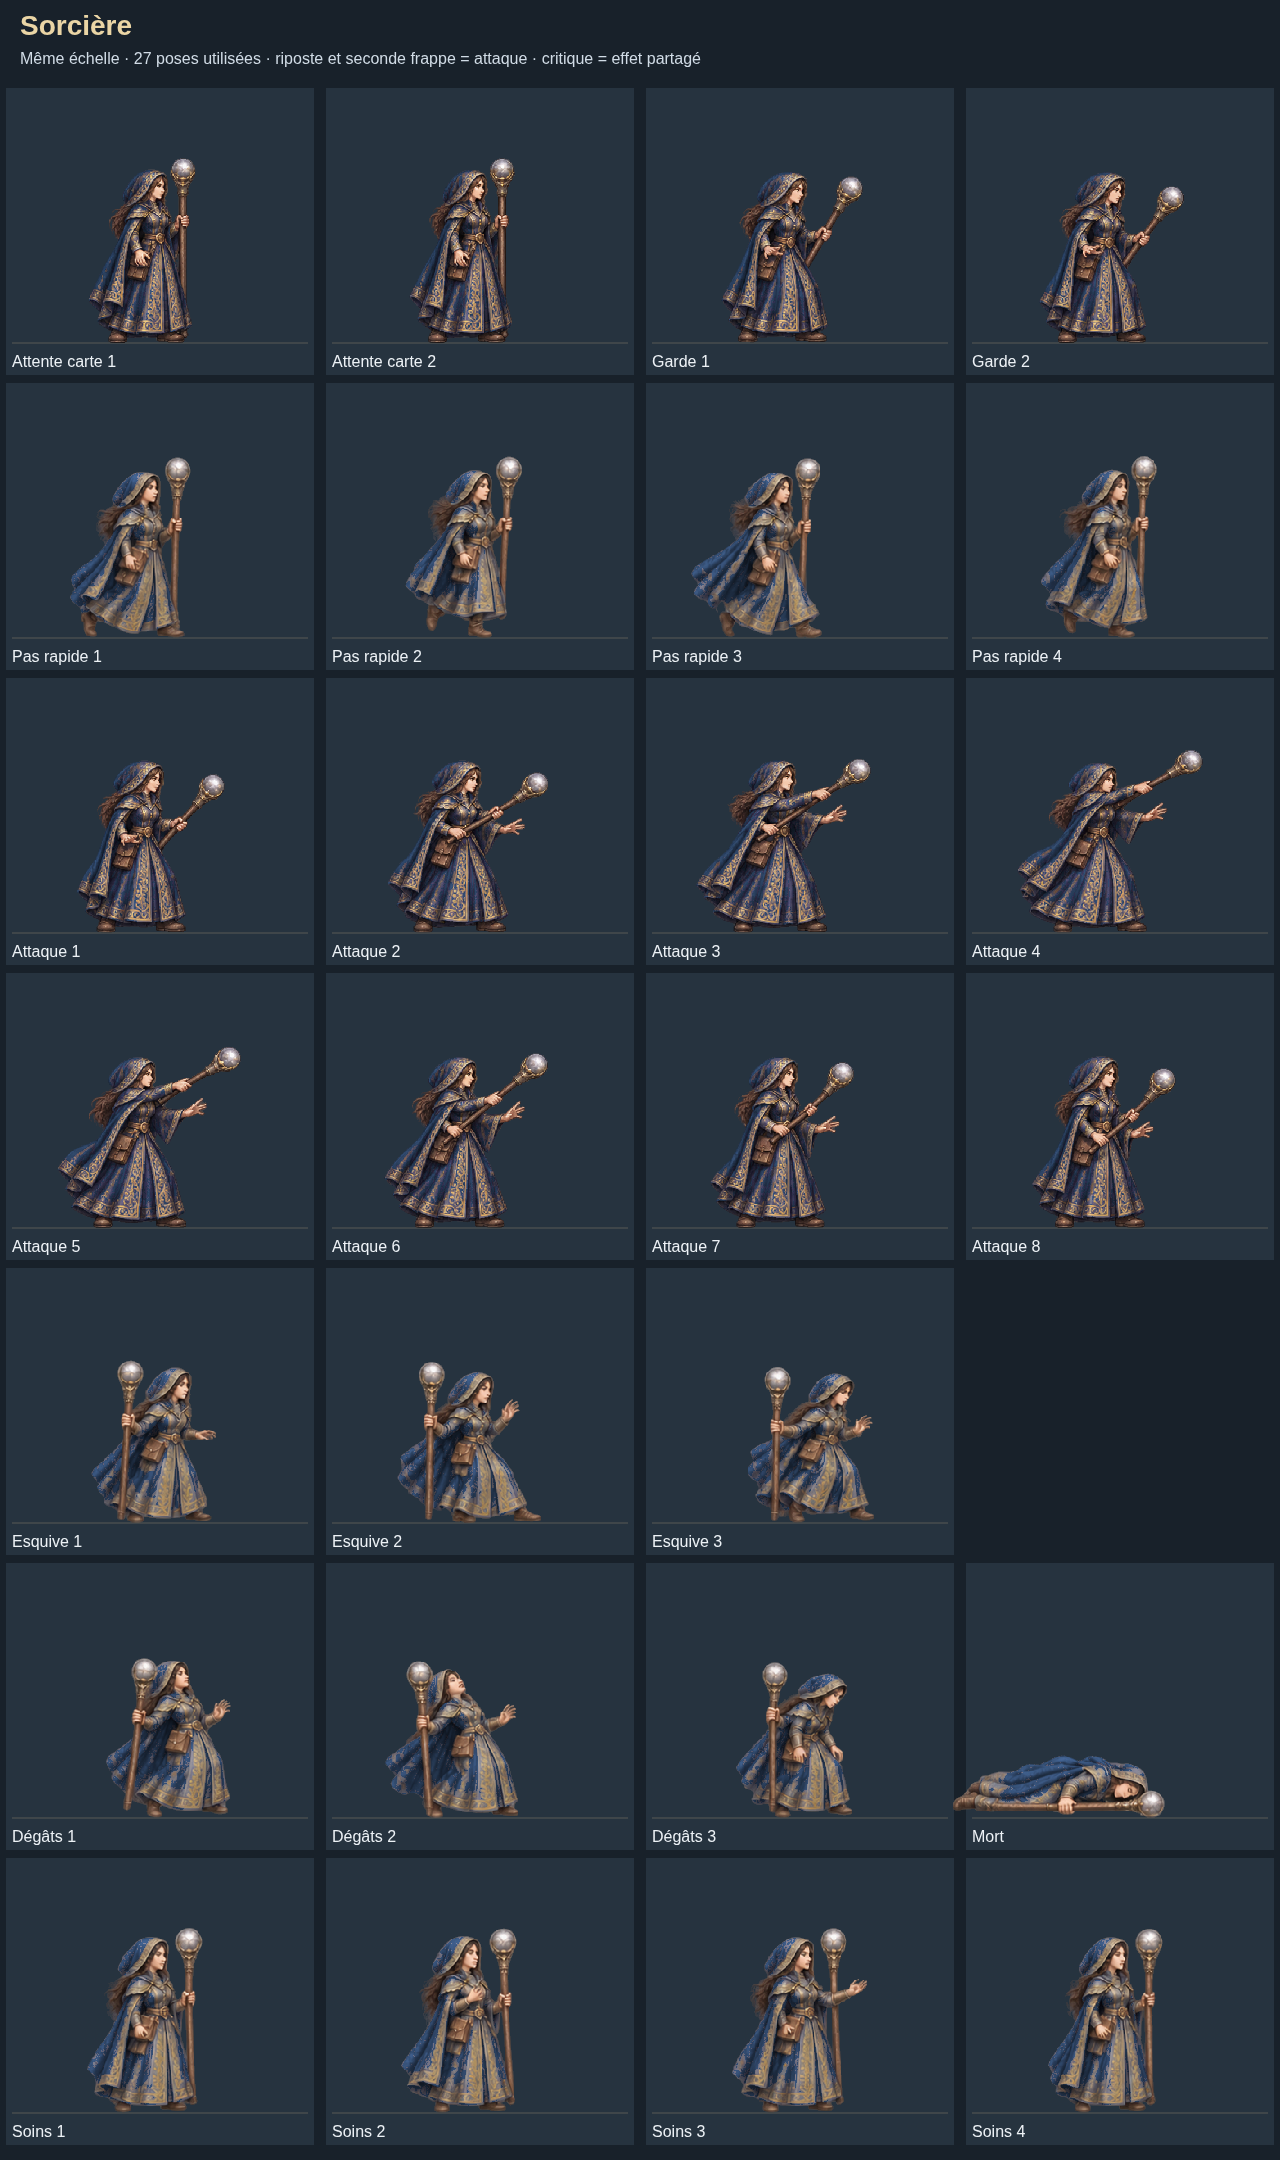
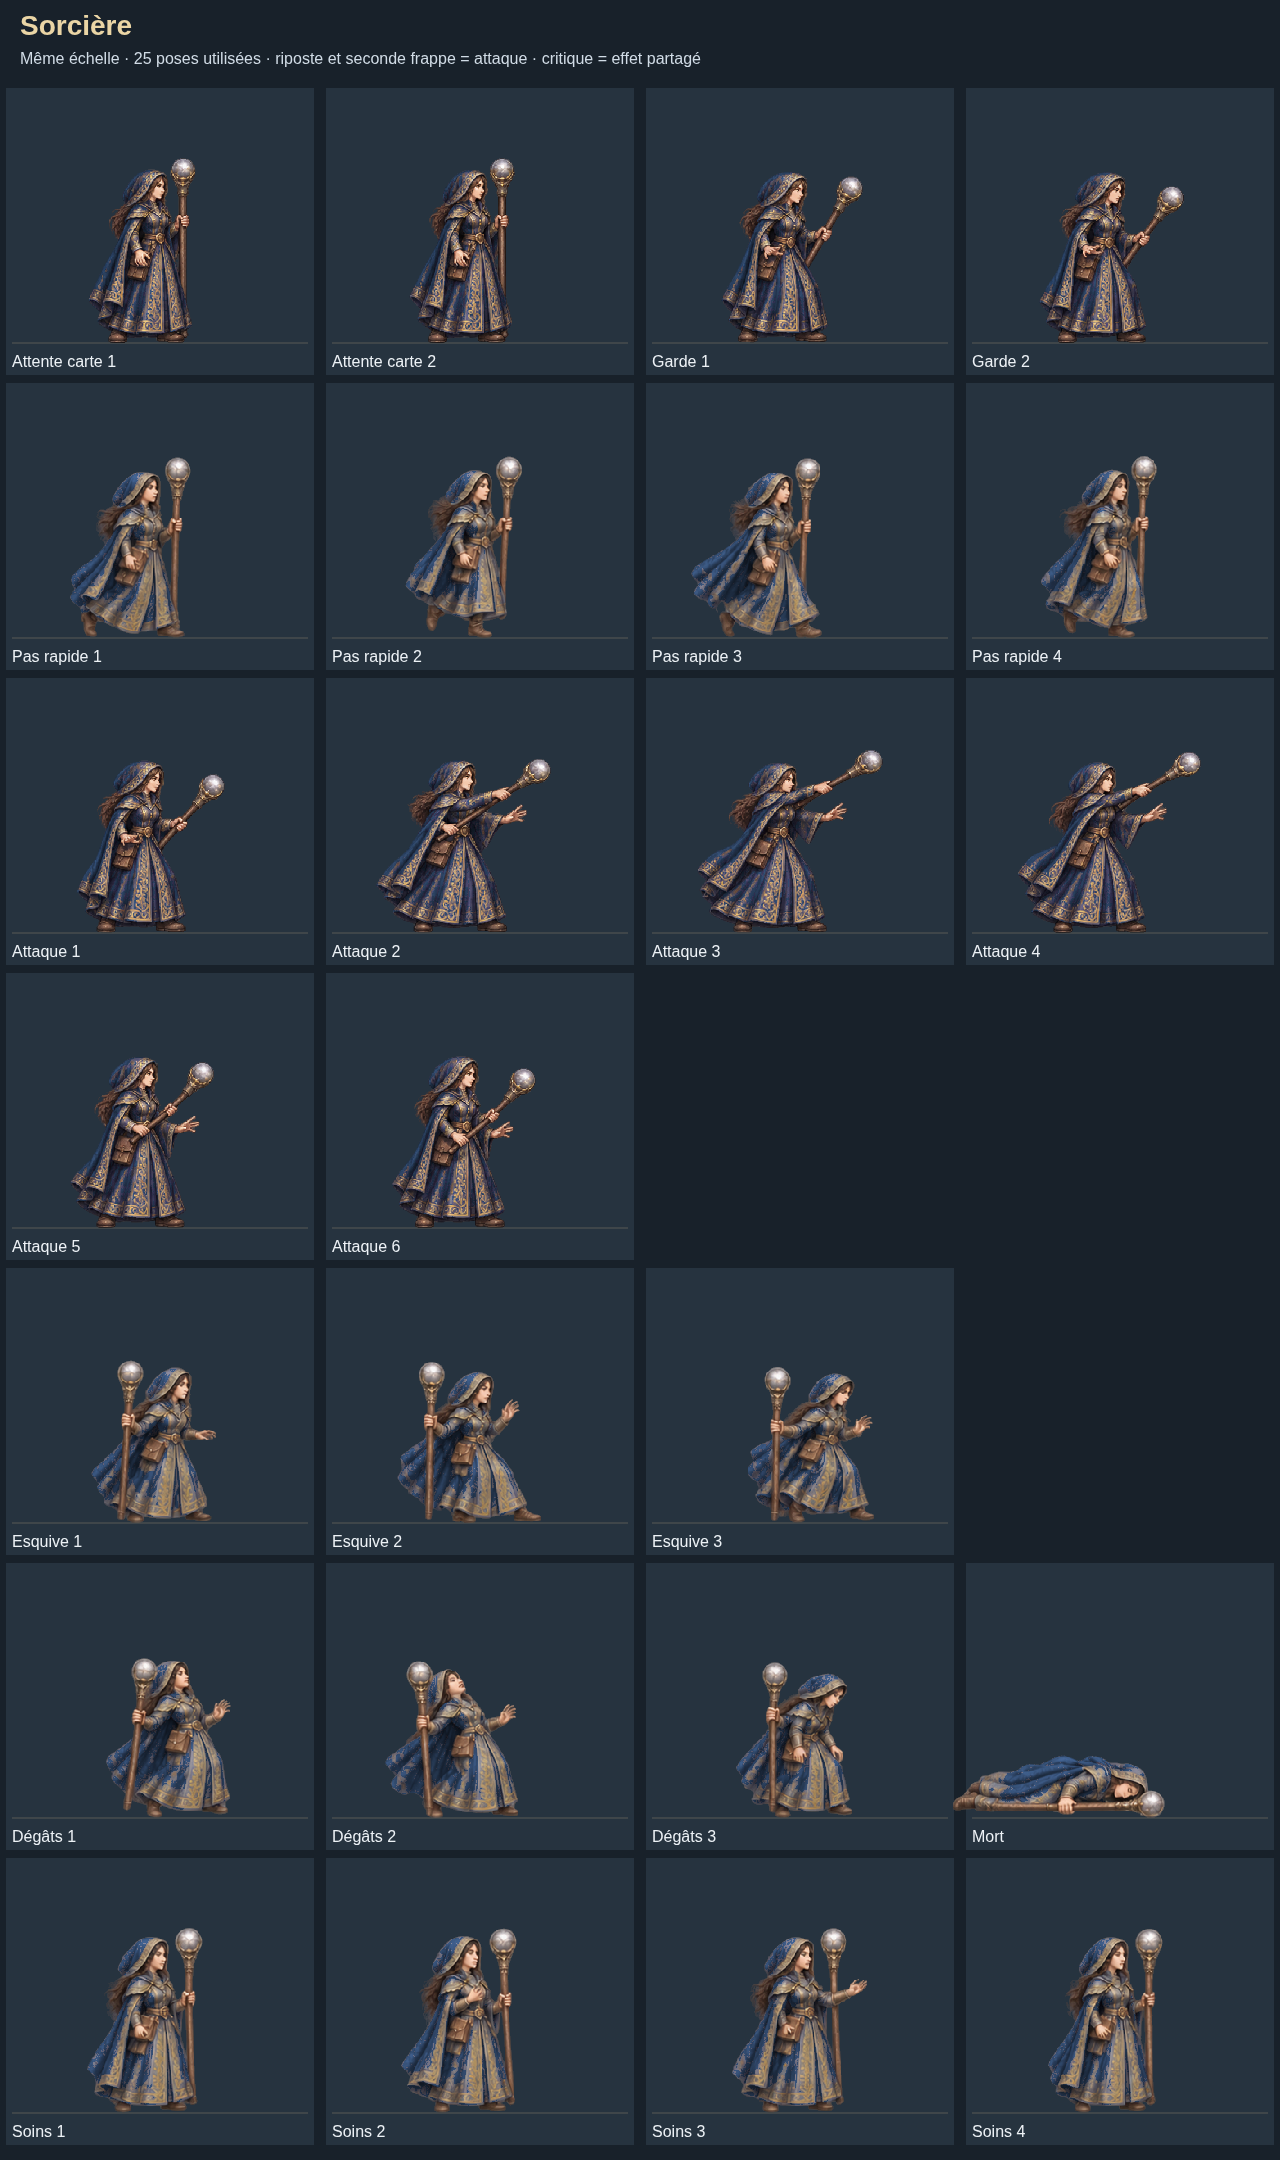
Garder la main libre pendant toute l incantation

diff --git a/scripts/register-combat-refinements.py b/scripts/register-combat-refinements.py
@@ -114,7 +114,10 @@ for name,cls,gender,full in MODELS:
             # A sword tip touches the sheet boundary in this one generated pose.
             # Do not import a clipped weapon; the neighbouring complete strike is used.
             if name in ['sword-f','spear']:cells.remove((1,3))
-            out['clips']['attack']=clip(cells,8,False,2 if name in ['sword-f','spear'] else 3)
+            # Keep the caster's spare hand empty throughout the casting cycle.
+            if name=='mage-f':
+                cells.remove((1,1));cells.remove((2,1))
+            out['clips']['attack']=clip(cells,8,False,2 if name in ['sword-f','spear','mage-f'] else 3)
             out['clips']['counter']={'reuse':'attack'}
             out['clips']['attack_again']={'reuse':'attack'}
             out['clips']['combat_idle']=clip([(0,2),(0,3)],2,True)

diff --git a/docs/corrections-base-combat.md b/docs/corrections-base-combat.md
@@ -10,7 +10,7 @@
 
 ## Vérifications
 
-206 tests automatiques réussis (57 visuels et 149 systèmes). Sept parcours navigateur réussis : les 22 variantes de base, sélection et sources identiques à la campagne, vitesse/pause/rejeu, attaques et soins, parade réservée aux boucliers, affichage mobile et comparaisons. Un huitième test navigateur vérifie les deux Sorciers, le suivi de l’orbe, la croissance du projectile et l’explosion. Les tests de sauvegarde existants passent ; le test d’essai vérifie que les sauvegardes restent inchangées.
+206 tests automatiques réussis (57 visuels et 149 systèmes). Sept parcours navigateur réussis : les 22 variantes de base, sélection et sources identiques à la campagne, vitesse/pause/rejeu, attaques et soins, parade réservée aux boucliers, affichage mobile et comparaisons. Un huitième test navigateur vérifie les deux Sorciers, le suivi de l’orbe, la croissance du projectile et l’explosion. Un neuvième vérifie les introductions des deux factions et leur présentation sur téléphone. Les tests de sauvegarde existants passent ; le test d’essai vérifie que les sauvegardes restent inchangées.
 
 Les essais ne remplacent pas la validation visuelle en partie par le joueur. Aucune modification des règles de dégâts, classes, recrutements, cartes ou dialogues.
 
